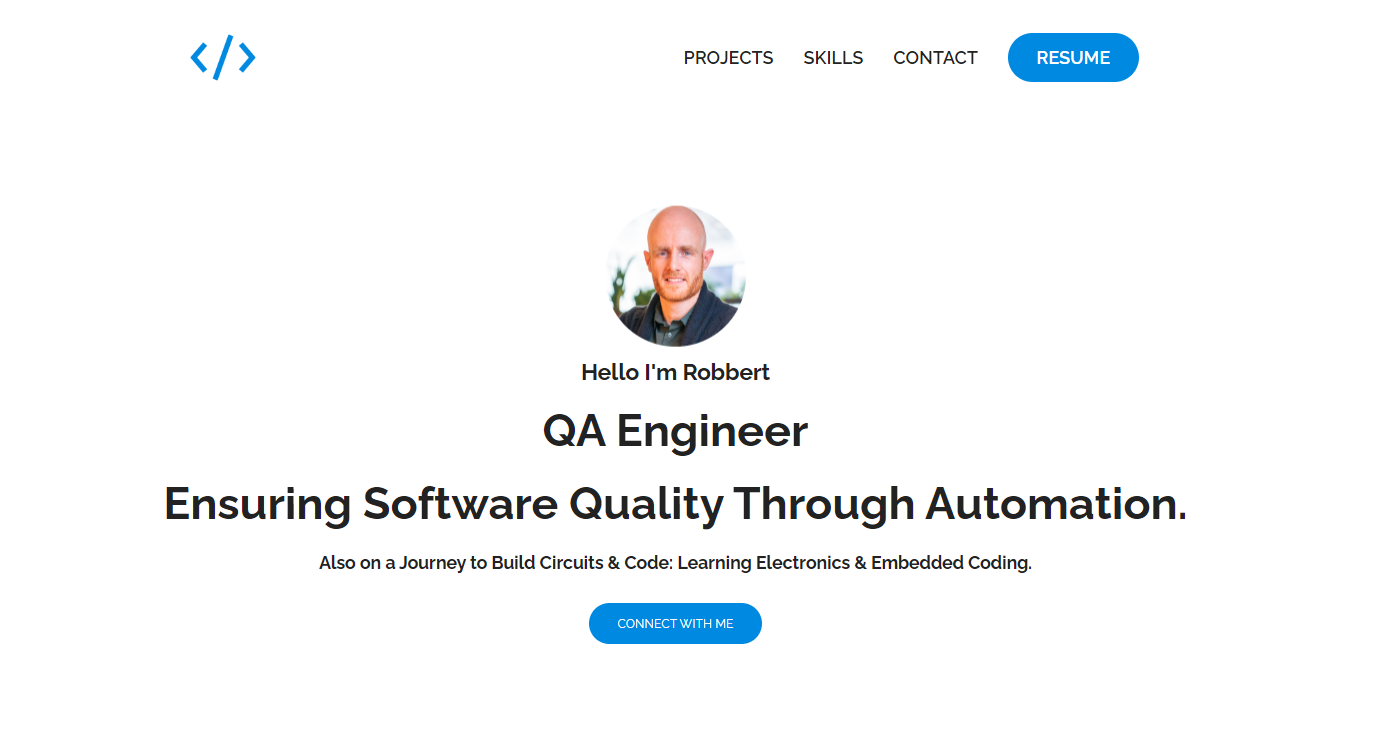
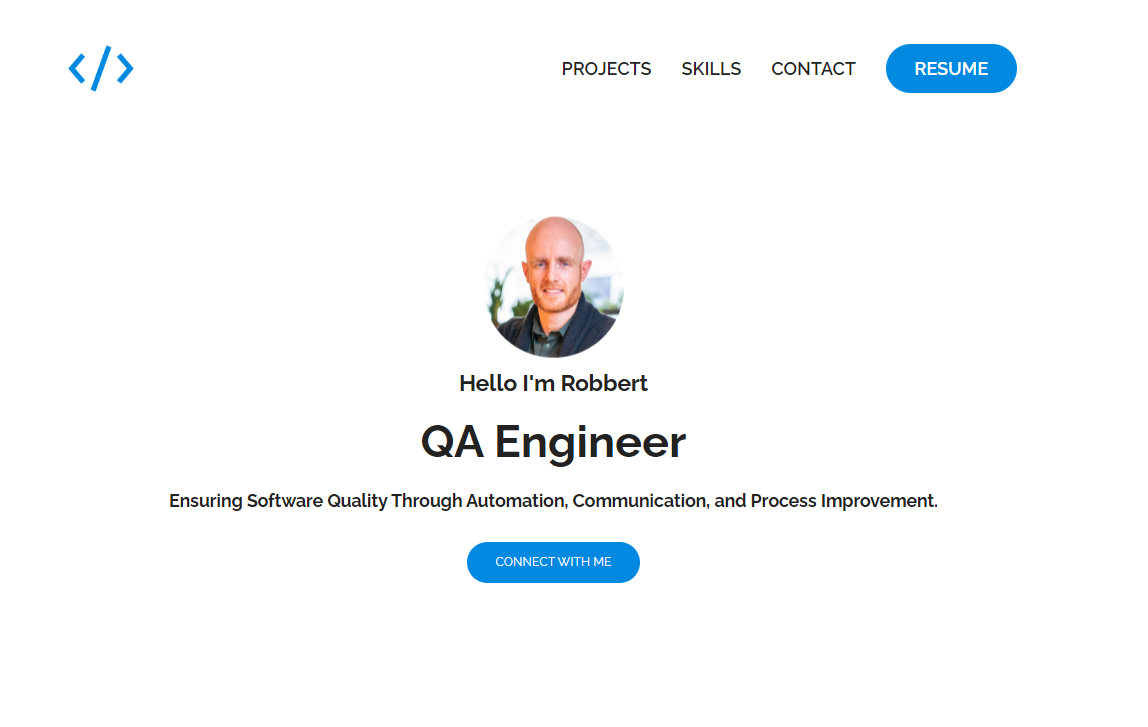
Working connect button

Changed region(s): [[0.0915, 0.2724, 0.8537, 0.8776], [0.4878, 0.0303, 0.8841, 0.1513], [0.061, 0.0605, 0.1829, 0.121]]

diff --git a/index.html b/index.html
@@ -78,7 +78,7 @@
         <h2>QA Engineer</h2>
         <h3>Ensuring Software Quality Through Automation, Communication, and Process Improvement.</h3>
       </div>
-      <a href="#contact-link" class="btn btn-secondary" target="_blank">Connect With Me</a>
+      <a href="#contact-link" class="btn btn-secondary">Connect With Me</a>
     </section>
   </header>
 

diff --git a/css/style.css b/css/style.css
@@ -562,8 +562,4 @@ body {
   .image-content img {
     width: 80%;
   }
-
-  
-
-  
 }
